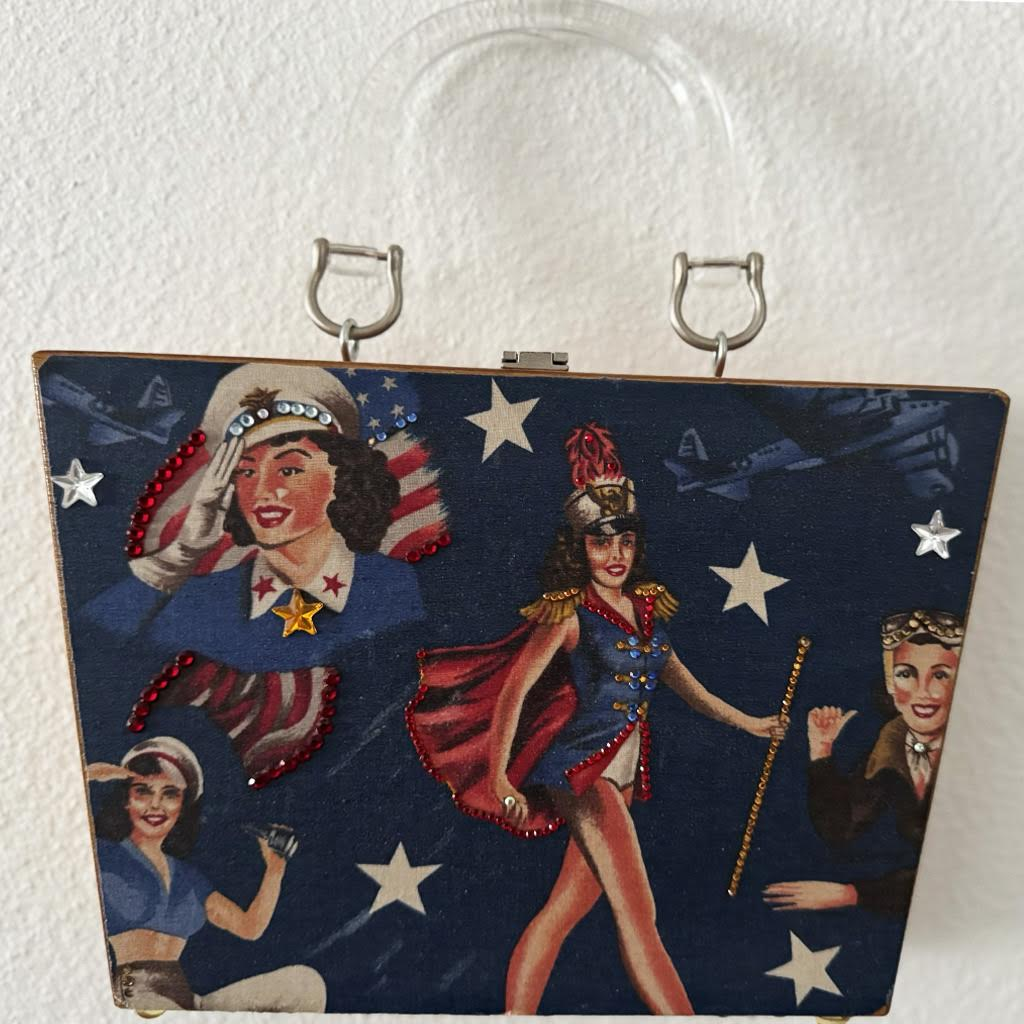
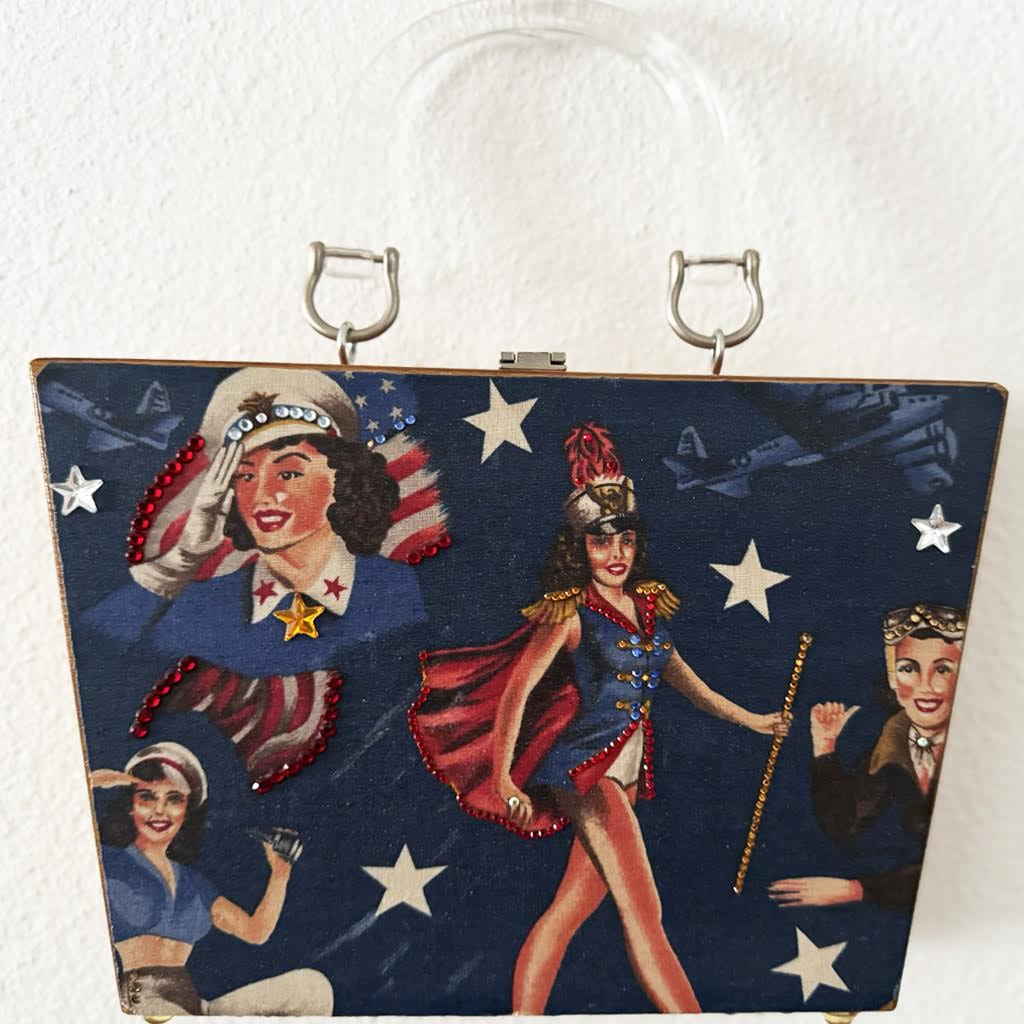
Handbag & Altered and Uploaded Photos
Wanted photo background lighter

diff --git a/script.js b/script.js
@@ -51,7 +51,7 @@ let handbagsContent = {
     },
 
     sunBathingBeauties: {
-        photo: "images/sunbathing.jpg",
+        photo: "images/sunbathing.jpeg",
         alt: "Wooden pyramid-shaped handbag with an image of pin-up girl's in bathing suites and beaded flowers with a brown background and a bamboo handle",
         name: "Sun Bathing Beauties",
         description: "Ready for the summer? The Sun Bathing Beauties bag is embellished with swarovski crystals.",
@@ -77,7 +77,7 @@ let handbagsContent = {
     },
 
     veryCherry: {
-        photo: "images/verrycherry.jpeg",
+        photo: "images/verycherry.jpeg",
         name: "Very Cherry",
         alt:  "Wooden rectangular-shaped handbag painted black with green stems and rhinestones for the cherries and a black beaded handle.",
         description: "Very Cherry was among the most exclusive designs in the Angela Leavitt collection, distinguished by its hand-painted artwork and limited availability.",
@@ -92,22 +92,26 @@ let handbagsContent = {
 };
 
 // function that will load the handbag content for handbag section 
-function loadhandbagContent() {
-    document.getElementById("handbagImg").src = handbagsContent.photo;
+function loadHandbagContent(handbag) {
+    document.getElementById("handbagImg").src = handbag.photo;
 
-    document.getElementById("handbagImg").alt = handbagsContent.alt;
+    document.getElementById("handbagImg").alt = handbag.alt;
     
-    document.getElementById("handbagName").textContent = handbagsContent.name;
+    document.getElementById("handbagName").textContent = handbag.name;
 
-    document.getElementById("handbagDescriptionMod").textContent = handbagsContent.description;
+    document.getElementById("handbagDescriptionMod").textContent = handbag.description;
 
-    document.getElementById("handbagDetails").textContent = handbagsContent.details;
+// array
+
+    let detailsText = "<li>Details:<li>";
+
+    for(let details of handbag.details){
+        detailsText += "<li>" + details + "</li>";
+    }
+
+    document.getElementById("handbagDetails").innerHTML= detailsText;
 
 }
-
-    
-
-
 
 
 
@@ -243,6 +247,32 @@ function validateForm (e) {
 
 // Event handlers dark mode
 document.getElementById("darkMode").addEventListener("click", hideDarkMode);
+
+//Event handlers for handbag section 
+document.getElementById("goModBut").addEventListener("click", function(){
+    loadHandbagContent(handbagsContent.goMod);
+});
+
+document.getElementById("cherylAnneBut").addEventListener("click", function(){
+    loadHandbagContent(handbagsContent.cherylAnne);
+});
+    
+document.getElementById("amyBut").addEventListener("click", function(){
+    loadHandbagContent(handbagsContent.amy);
+});
+
+document.getElementById("sunBathingBeautiesBut").addEventListener("click", function(){
+    loadHandbagContent(handbagsContent.sunBathingBeauties);
+});
+
+document.getElementById("betsyBut").addEventListener("click", function(){
+    loadHandbagContent(handbagsContent.betsy);
+});
+
+document.getElementById("veryCherryBut").addEventListener("click", function(){
+    loadHandbagContent(handbagsContent.veryCherry);
+});
+
 
 //Event Handler to validate form
 document.getElementById("submitBut").addEventListener("click", validateForm);

diff --git a/index.html b/index.html
@@ -75,7 +75,7 @@
                         
                         <ul id="handbagDetails">
                             <li>Details:</li>
-                            <li>9' Width x 5' Height x 3' Depth</li>
+                            <li>11' Width x 8' Height x 2 1/4' Depth</li>
                             <li>Wood box construction with lucite handle</li>
                             <li>Front and back design</li>
                             <li>Lined inside and includes mirror</li>
@@ -87,7 +87,7 @@
                     <button id="goModBut">Go Mod</button>
                     <button id="cherylAnneBut">Cheryl Anne</button>
                     <button id="amyBut">Amy</button>
-                    <button id="bathingBeautiesBut">Bathing Beauties</button>
+                    <button id="sunBathingBeautiesBut">Sun Bathing Beauties</button>
                     <button id="betsyBut">Betsy</button>
                     <button id="veryCherryBut">Very Cherry</button>
                 </div>

diff --git a/styles.css b/styles.css
@@ -286,7 +286,7 @@ nav a:hover {
 }
 
 #handbagName, 
-#handbagDescriptionMod {
+#handbagDescriptionMod, #handbagDetails {
     display: block;
     text-align: left;
     max-width: 300px;
